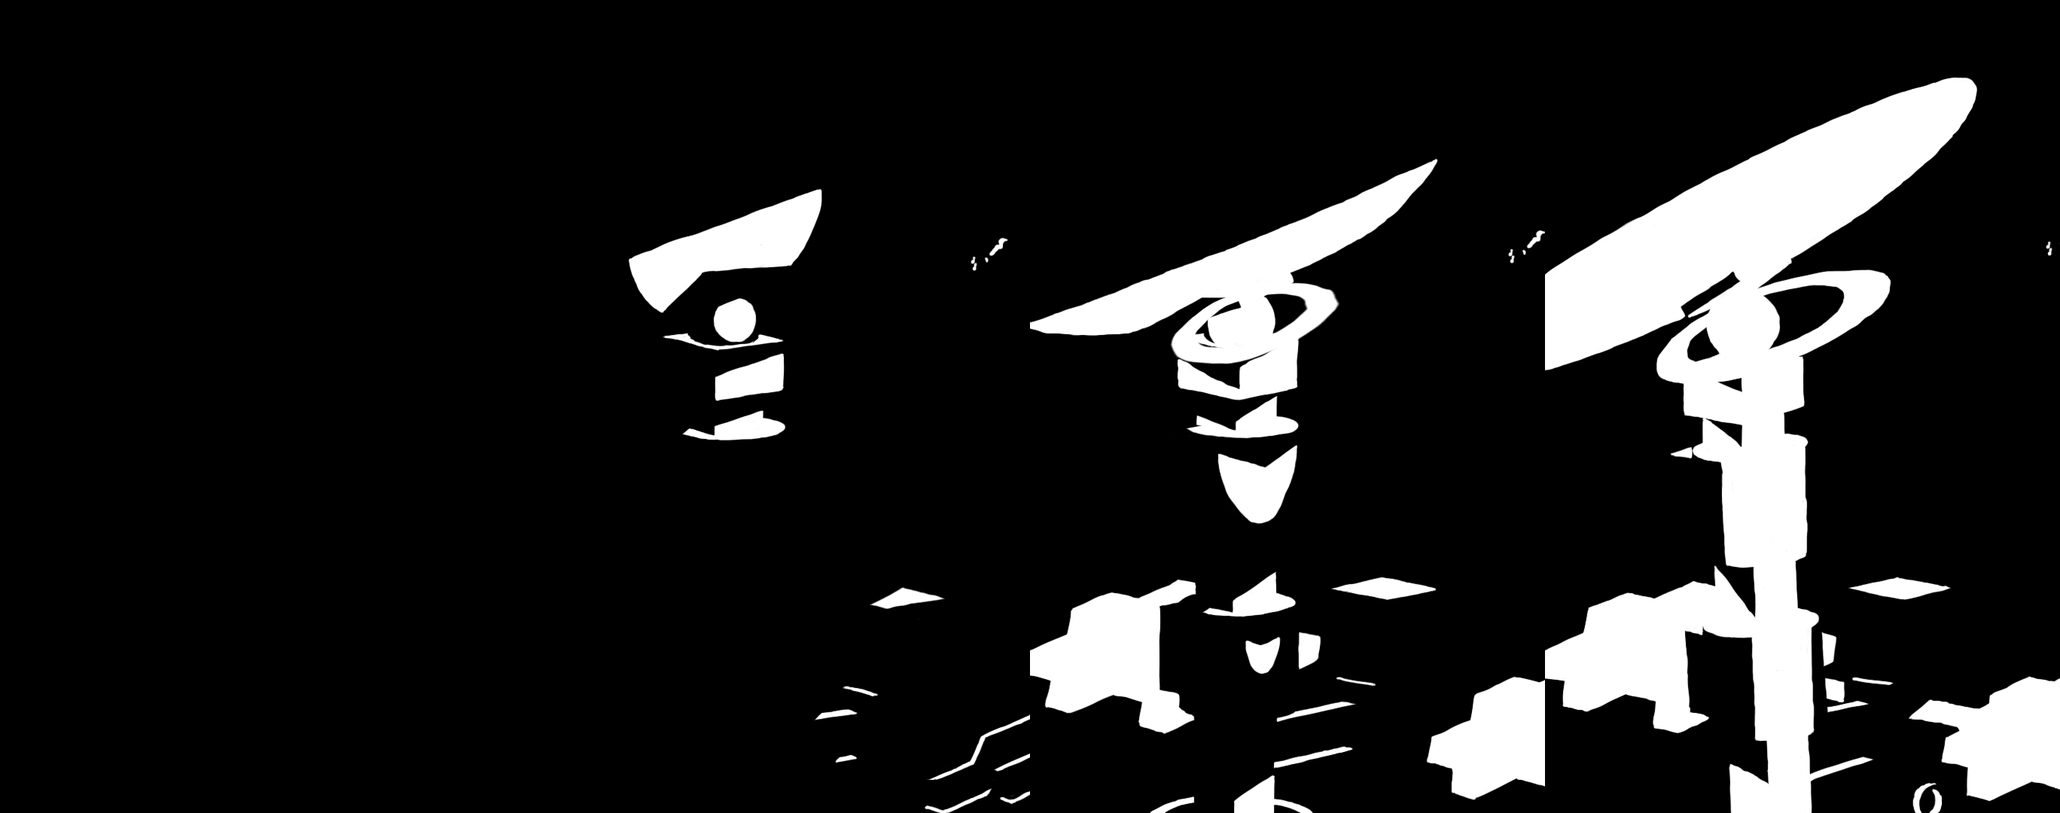
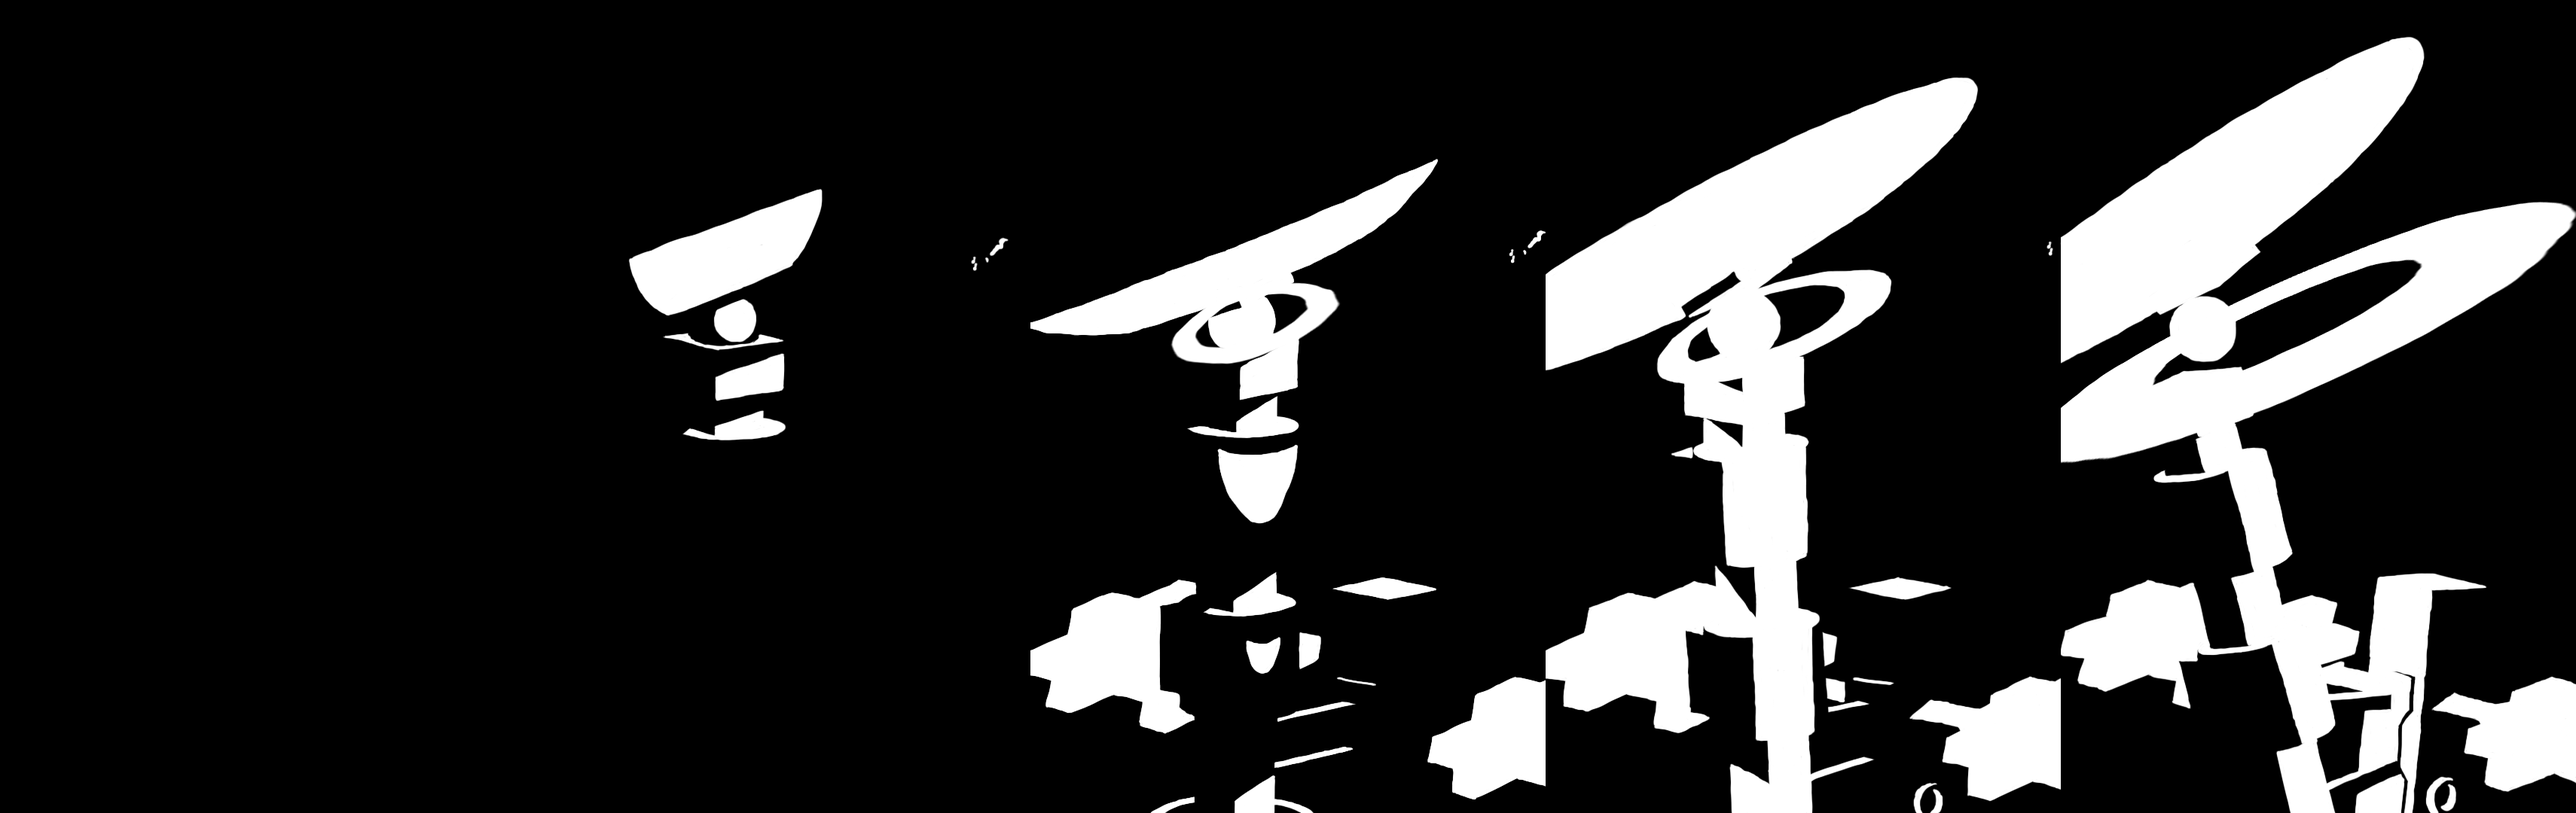
Update black-and-white explosion lighting.

Changed region(s): [[0.3728, 0.0306, 1.0, 1.0], [0.2485, 0.2139, 0.4039, 0.55]]

diff --git a/flipbook.js b/flipbook.js
@@ -138,7 +138,7 @@ let panels = [
     new Panel ({
       name: 'color-nine',
       imageSource: 'images/color-nine.png',
-      frames: 4
+      frames: 5
     }),
 ]
 
